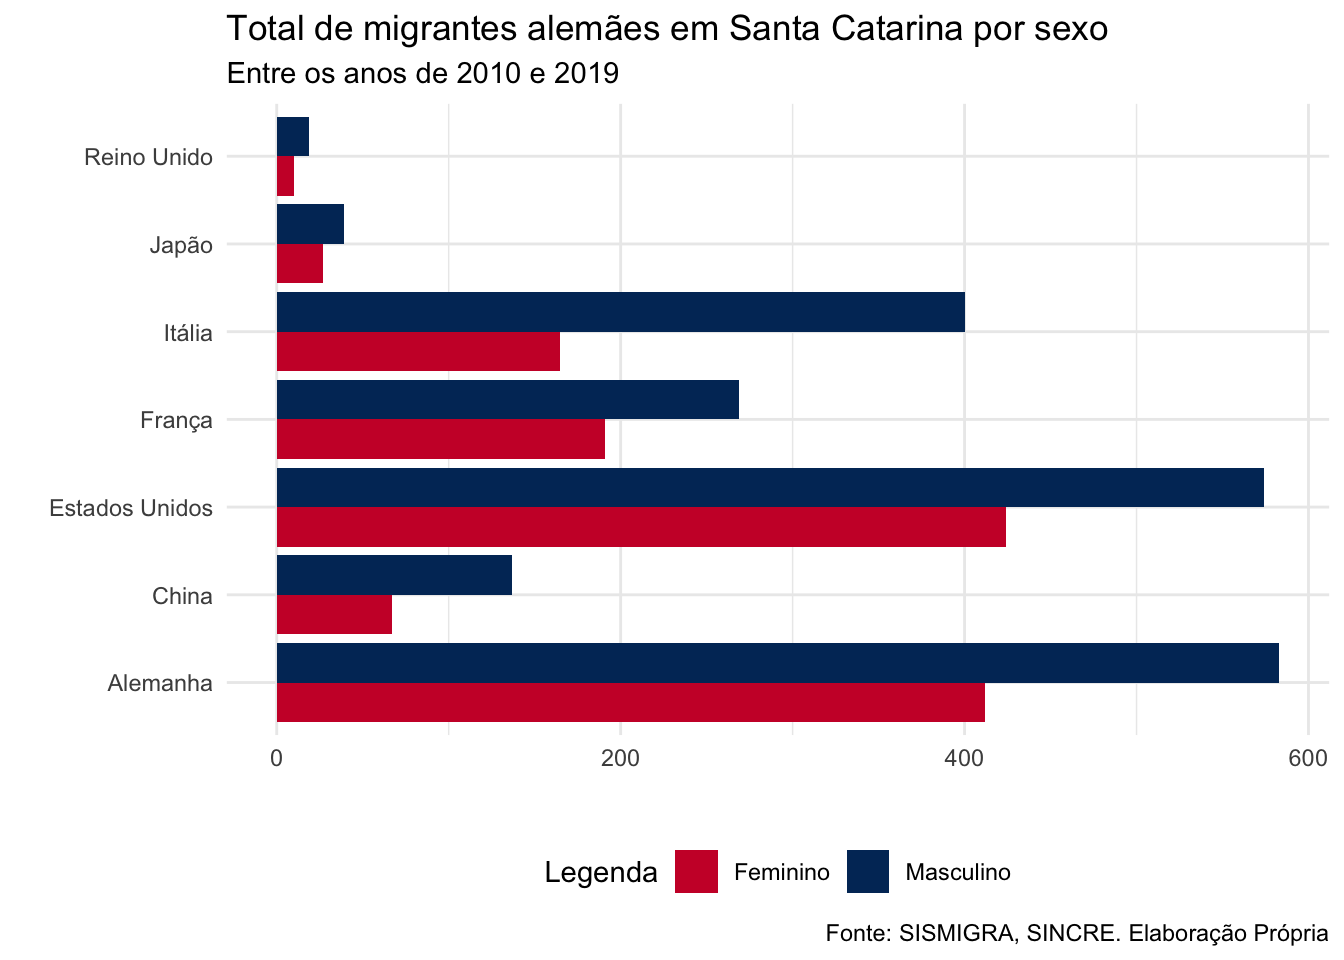
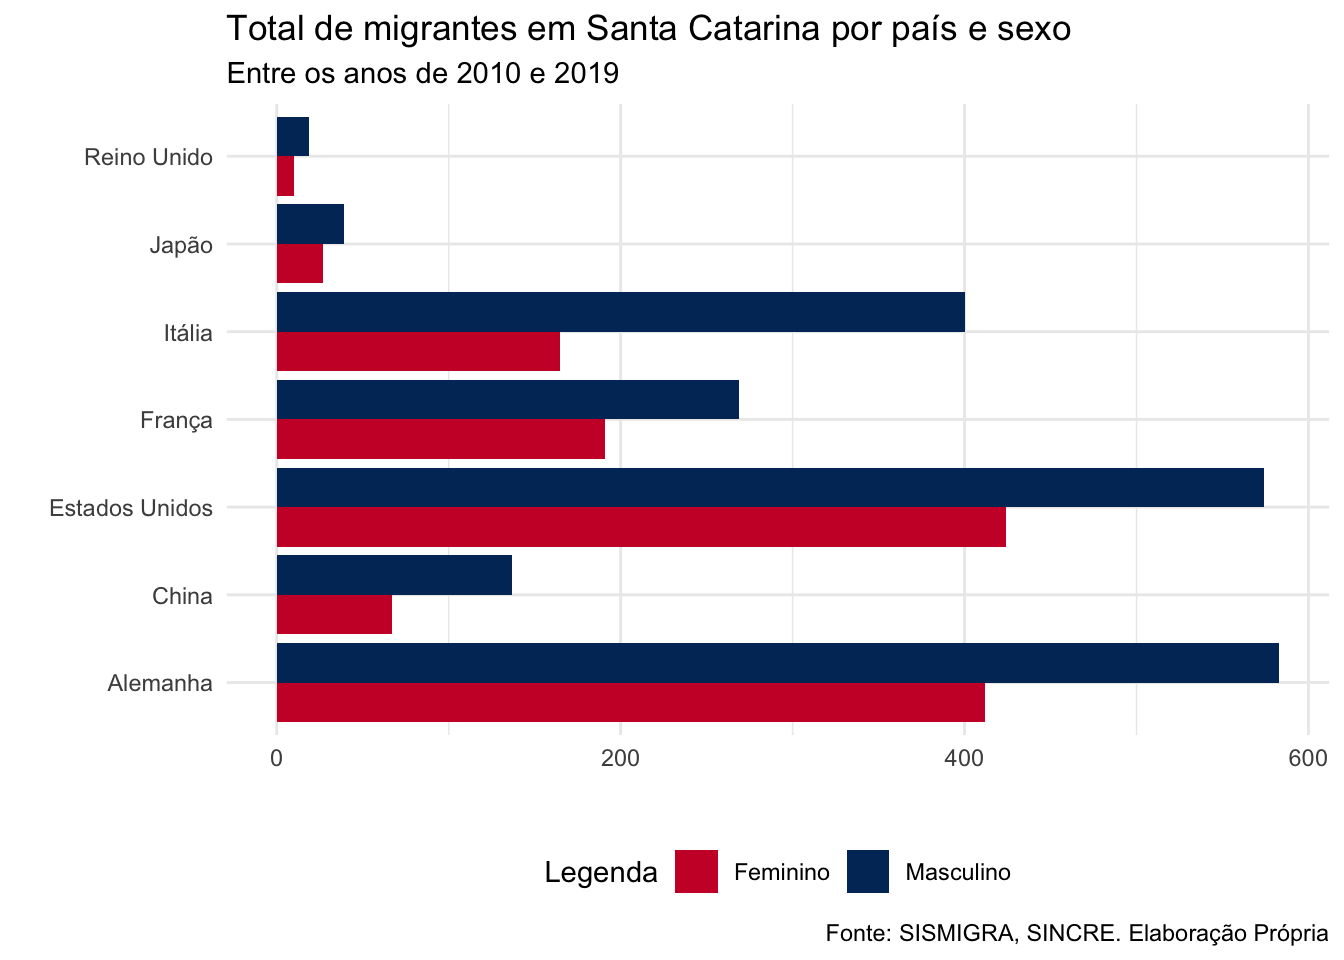
pequenas correções no workshop 4

Changed region(s): [[0.4062, 0.0, 0.5938, 0.0625], [0.625, 0.0, 0.8125, 0.0625]]

diff --git a/workshop4.html b/workshop4.html
@@ -522,7 +522,7 @@ plot_migracao_sexo</code></pre>
 <pre class="r"><code>plot_migracao_sexo&lt;-plot_migracao_sexo + geom_bar(stat=&quot;identity&quot;, position=&quot;dodge&quot;) +
   xlab(&quot;&quot;)+
   ylab(&quot;&quot;)+
-  labs(title = &quot;Total de migrantes alemães em Santa Catarina por sexo&quot;,
+  labs(title = &quot;Total de migrantes em Santa Catarina por país e sexo&quot;,
        subtitle=&quot;Entre os anos de 2010 e 2019&quot;,
        caption=&quot;Fonte: SISMIGRA, SINCRE. Elaboração Própria&quot;)+
   theme_minimal()+
